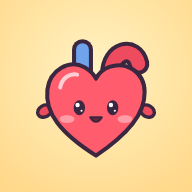
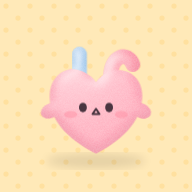
内臓・細胞キャラをぬいぐるみ風（ふち線なし・点の目・パステル）に描き直し、肺と肝臓を追加
Claude-Session: https://claude.ai/code/session_015AQ5PSpXJyMFnwsZRYtWDB

diff --git a/tools/organ-icons.js b/tools/organ-icons.js
@@ -1,98 +1,104 @@
-// 内臓・細胞キャラのホーム画面アイコン（オリジナル絵）を作るスクリプト
-// 使い方: node tools/organ-icons.js  → icons/e〜l に PNG ができる
+// 内臓・細胞キャラのホーム画面アイコン（オリジナル絵・ぬいぐるみ風）を作るスクリプト
+// 使い方: node tools/organ-icons.js  → icons/e〜n に PNG ができる
 const fs = require("fs");
 const path = require("path");
-const O = "#3b2740";   // 線の色
-const SW = 12;         // 線の太さ
+const INK = "#4a3540"; // 目・口の色
 
-function face(x, y, s = 1, opt = {}) {
-  s *= 1.3;
-  const ex = 38 * s, ey = 17 * s;
-  const eye = (cx) => `<ellipse cx="${cx}" cy="${y}" rx="${13 * s}" ry="${ey}" fill="${opt.eye || O}"/>` +
-    `<circle cx="${cx - 4 * s}" cy="${y - 6 * s}" r="${5 * s}" fill="#fff"/>` +
-    `<circle cx="${cx + 5 * s}" cy="${y + 7 * s}" r="${2.4 * s}" fill="#fff"/>`;
-  const blush = (cx) => `<ellipse cx="${cx}" cy="${y + 26 * s}" rx="${17 * s}" ry="${9 * s}" fill="${opt.blush || "#ff6f91"}" opacity=".55"/>`;
-  const mouth = `<path d="M${x - 13 * s} ${y + 22 * s} Q${x} ${y + 42 * s} ${x + 13 * s} ${y + 22 * s} Z" fill="${opt.mouth || "#7a2238"}" stroke="${opt.eye || O}" stroke-width="${5 * s}" stroke-linejoin="round"/>`;
-  return blush(x - 66 * s) + blush(x + 66 * s) + eye(x - ex) + eye(x + ex) + mouth;
+// 小さい点の目＋ちょこんとした口（mouth: smile / open / cat / flat）
+function face(x, y, s = 1, mouth = "smile", blush = "#ff8fa3") {
+  s *= 1.15;
+  const ex = 30 * s;
+  const eye = (cx) => `<ellipse cx="${cx}" cy="${y}" rx="${9 * s}" ry="${11 * s}" fill="${INK}"/>`;
+  const b = (cx) => `<ellipse cx="${cx}" cy="${y + 16 * s}" rx="${15 * s}" ry="${8 * s}" fill="${blush}" opacity=".5"/>`;
+  const st = `fill="none" stroke="${INK}" stroke-width="${5.5 * s}" stroke-linecap="round" stroke-linejoin="round"`;
+  const m = {
+    smile: `<path d="M${x - 10 * s} ${y + 6 * s} Q${x} ${y + 17 * s} ${x + 10 * s} ${y + 6 * s}" ${st}/>`,
+    cat: `<path d="M${x - 14 * s} ${y + 6 * s} Q${x - 7 * s} ${y + 15 * s} ${x} ${y + 7 * s} Q${x + 7 * s} ${y + 15 * s} ${x + 14 * s} ${y + 6 * s}" ${st}/>`,
+    open: `<path d="M${x - 9 * s} ${y + 5 * s} Q${x} ${y + 22 * s} ${x + 9 * s} ${y + 5 * s} Z" fill="${INK}" stroke="${INK}" stroke-width="${3 * s}" stroke-linejoin="round"/>`,
+    tri: `<path d="M${x} ${y + 3 * s} L${x - 8 * s} ${y + 15 * s} L${x + 8 * s} ${y + 15 * s} Z" fill="none" stroke="${INK}" stroke-width="${4.5 * s}" stroke-linejoin="round"/>`,
+  }[mouth];
+  return b(x - 58 * s) + b(x + 58 * s) + eye(x - ex) + eye(x + ex) + m;
 }
-// 丸をたくさん重ねて「もこもこ」の形にする（外側だけ線が出る）
-function blob(circles, fill) {
-  const c = (w) => circles.map(([x, y, r]) => `<circle cx="${x}" cy="${y}" r="${r}"${w}/>`).join("");
-  return `<g fill="${O}" stroke="${O}" stroke-width="${SW * 2}">${c("")}</g><g fill="${fill}">${c("")}</g>`;
-}
-// 太い管（線つき）
-function tube(d, color, w) {
-  return `<path d="${d}" fill="none" stroke="${O}" stroke-width="${w + SW * 2}" stroke-linecap="round" stroke-linejoin="round"/>` +
-    `<path d="${d}" fill="none" stroke="${color}" stroke-width="${w}" stroke-linecap="round" stroke-linejoin="round"/>`;
-}
-const arm = (x, y, r, fill) => `<ellipse cx="${x}" cy="${y}" rx="22" ry="17" transform="rotate(${r} ${x} ${y})" fill="${fill}" stroke="${O}" stroke-width="${SW - 2}"/>`;
-const sp = (x, y, s, c) => `<path d="M${x} ${y - s} Q${x} ${y} ${x + s} ${y} Q${x} ${y} ${x} ${y + s} Q${x} ${y} ${x - s} ${y} Q${x} ${y} ${x} ${y - s}Z" fill="${c}"/>`;
+const circles = (list, fill) => list.map(([x, y, r]) => `<circle cx="${x}" cy="${y}" r="${r}" fill="${fill}"/>`).join("");
+const tube = (d, color, w) => `<path d="${d}" fill="none" stroke="${color}" stroke-width="${w}" stroke-linecap="round" stroke-linejoin="round"/>`;
+const star = (x, y, s, c) => `<path d="M${x} ${y - s} Q${x} ${y} ${x + s} ${y} Q${x} ${y} ${x} ${y + s} Q${x} ${y} ${x - s} ${y} Q${x} ${y} ${x} ${y - s}Z" fill="${c}"/>`;
 
+// body: ぬいぐるみの体（ふわっと立体にする）／ deco: 体の上の模様／ face: 顔
 const ICONS = {
-  e: { name: "しんぞう", bg: ["#fff3c4", "#ffd88a"], body: () =>
-    tube("M300 190 C300 120 370 105 382 160", "#ee4b5f", 40) +
-    tube("M216 190 L216 118", "#6fa3ec", 38) +
-    arm(104, 300, -30, "#ee4b5f") + arm(408, 300, 30, "#ee4b5f") +
-    `<path d="M256 432 C150 365 104 305 112 236 C120 176 178 146 222 170 C240 180 251 194 256 204 C262 192 276 176 296 169 C346 152 400 184 400 244 C401 308 352 366 256 432 Z" fill="#ff5d6e" stroke="${O}" stroke-width="${SW}" stroke-linejoin="round"/>` +
-    `<path d="M150 230 C155 200 180 188 200 192" fill="none" stroke="#fff" stroke-width="12" stroke-linecap="round" opacity=".7"/>` +
-    face(256, 290, 1, { blush: "#ffd1d7" }) },
-  f: { name: "のう", bg: ["#d9fbe9", "#9fe8c4"], body: () =>
-    tube("M256 360 L256 420", "#f58aa6", 46) +
-    blob([[256, 250, 140], [150, 250, 85], [362, 250, 85], [190, 170, 75], [322, 170, 75], [256, 150, 80], [170, 320, 70], [342, 320, 70], [256, 340, 80]], "#ffa9c0") +
-    `<g fill="none" stroke="#e0718f" stroke-width="9" stroke-linecap="round">` +
-    `<path d="M256 120 C246 150 266 175 256 205"/><path d="M175 180 C200 170 205 205 230 200"/><path d="M337 180 C312 170 307 205 282 200"/>` +
-    `<path d="M128 255 C150 235 165 262 185 248"/><path d="M384 255 C362 235 347 262 327 248"/></g>` +
-    face(256, 290) },
-  g: { name: "い", bg: ["#dff1ff", "#a8d5ff"], body: () =>
-    tube("M196 70 L196 170", "#ffb27a", 44) +
-    tube("M392 330 C430 350 440 400 410 425", "#ffb27a", 34) +
-    arm(132, 300, -35, "#ffb27a") +
-    `<path d="M172 150 C168 230 150 300 190 365 C232 432 352 440 398 368 C436 306 410 222 348 220 C298 218 282 255 260 226 C240 200 246 160 222 150 Z" fill="#ffc08c" stroke="${O}" stroke-width="${SW}" stroke-linejoin="round"/>` +
-    `<path d="M196 200 C192 240 186 280 200 320" fill="none" stroke="#fff" stroke-width="12" stroke-linecap="round" opacity=".6"/>` +
-    face(296, 320, 0.95) },
-  h: { name: "ちょう", bg: ["#fff8d6", "#ffe58f"], body: () => {
-    const d = "M150 150 H362 C418 150 418 250 362 250 H150 C94 250 94 350 150 350 H330";
-    return tube(d, "#ff9f86", 84) +
-      `<path d="${d}" fill="none" stroke="#ffc3b0" stroke-width="40" stroke-linecap="round" stroke-linejoin="round" stroke-dasharray="6 26"/>` +
-      `<path d="M330 350 C370 350 392 360 400 392" fill="none" stroke="${O}" stroke-width="${SW}" stroke-linecap="round"/>` +
-      `<path d="M150 128 H250" fill="none" stroke="#fff" stroke-width="10" stroke-linecap="round" opacity=".7"/>` +
-      face(256, 234, 0.8);
-  } },
-  i: { name: "せっけっきゅう", bg: ["#e2f0ff", "#b6d6ff"], body: () =>
-    `<ellipse cx="256" cy="270" rx="172" ry="160" fill="#e8394f" stroke="${O}" stroke-width="${SW}"/>` +
-    `<ellipse cx="256" cy="275" rx="105" ry="92" fill="#c92740"/>` +
-    `<path d="M140 210 C160 160 205 135 250 132" fill="none" stroke="#fff" stroke-width="14" stroke-linecap="round" opacity=".55"/>` +
-    face(256, 262, 1, { blush: "#ff9fb0", mouth: "#5c0f20" }) },
-  j: { name: "はっけっきゅう", bg: ["#efe6ff", "#c9b2ff"], body: () =>
-    blob([[256, 262, 140], [256, 118, 42], [360, 152, 44], [398, 258, 42], [360, 366, 44], [256, 404, 42], [152, 366, 44], [114, 258, 42], [152, 152, 44]], "#ffffff") +
-    `<path d="M200 380 C190 360 210 350 222 360 C230 340 255 345 255 365" fill="none" stroke="#c7b8e8" stroke-width="9" stroke-linecap="round"/>` +
-    `<path d="M300 170 C320 160 345 175 340 195" fill="none" stroke="#c7b8e8" stroke-width="9" stroke-linecap="round"/>` +
-    face(256, 262, 1, { blush: "#ffb0c8" }) },
-  k: { name: "かんさいぼう", bg: ["#e9fff3", "#b4f0d0"], body: () =>
-    tube("M256 140 C256 110 250 95 256 76", "#4fbf6a", 14) +
-    `<path d="M256 96 C220 60 180 70 172 92 C200 110 236 112 256 96 Z M258 92 C290 50 336 56 344 80 C316 104 280 106 258 92 Z" fill="#7ad98e" stroke="${O}" stroke-width="9" stroke-linejoin="round"/>` +
-    `<circle cx="256" cy="285" r="150" fill="#c4f5d2" stroke="${O}" stroke-width="${SW}"/>` +
-    `<circle cx="345" cy="350" r="34" fill="#9b7bea" stroke="${O}" stroke-width="8"/><circle cx="335" cy="340" r="9" fill="#fff" opacity=".7"/>` +
-    `<circle cx="168" cy="350" r="12" fill="#8fe0a8"/><circle cx="196" cy="384" r="8" fill="#8fe0a8"/>` +
-    face(250, 270) },
-  l: { name: "ニューロン", bg: ["#2b3d78", "#16204a"], body: () =>
-    sp(110, 120, 18, "#ffe680") + sp(410, 410, 14, "#9fe8ff") + sp(420, 120, 12, "#ffe680") + sp(96, 420, 10, "#9fe8ff") +
-    tube("M200 210 L130 160 M130 160 L100 175 M130 160 L120 125", "#ffd34d", 22) +
-    tube("M312 210 L382 160 M382 160 L412 175 M382 160 L392 125", "#ffd34d", 22) +
-    tube("M256 180 L256 112 M256 112 L230 90 M256 112 L282 90", "#ffd34d", 22) +
-    tube("M180 310 L120 340", "#ffd34d", 22) +
-    tube("M330 320 C360 360 360 400 400 430", "#ffd34d", 18) +
-    `<g fill="#7fd6ff" stroke="${O}" stroke-width="7"><rect x="336" y="340" width="34" height="26" rx="12" transform="rotate(58 353 353)"/><rect x="360" y="392" width="34" height="26" rx="12" transform="rotate(35 377 405)"/></g>` +
-    `<path d="M256 172 C330 172 352 222 350 268 C348 330 302 352 256 352 C204 352 160 326 160 266 C160 214 190 172 256 172 Z" fill="#ffd34d" stroke="${O}" stroke-width="${SW}" stroke-linejoin="round"/>` +
-    face(256, 262, 0.95, { blush: "#ff8a6e" }) },
+  e: { name: "しんぞう", bg: "#ffe9b8", dot: "#ffd98a",
+    body: () => tube("M206 205 L206 128", "#8cc4f0", 44) + tube("M300 200 C300 130 352 118 368 160", "#ff8ea4", 44) +
+      `<ellipse cx="118" cy="300" rx="30" ry="22" transform="rotate(-25 118 300)" fill="#ff9fb3"/><ellipse cx="394" cy="300" rx="30" ry="22" transform="rotate(25 394 300)" fill="#ff9fb3"/>` +
+      `<path d="M256 430 C160 380 112 320 116 250 C120 190 170 160 214 180 C236 190 250 204 256 214 C264 202 280 186 302 180 C352 166 398 200 396 258 C394 324 348 382 256 430 Z" fill="#ff9fb3"/>`,
+    deco: () => "", face: () => face(256, 290, 1.15, "tri") },
+  f: { name: "のう", bg: "#d7f5e6", dot: "#b5ebd0",
+    body: () => tube("M262 350 L272 418", "#f2a6bd", 48) +
+      circles([[256, 250, 140], [150, 255, 88], [362, 255, 88], [190, 175, 78], [322, 175, 78], [256, 160, 82], [180, 320, 72], [332, 320, 72], [256, 335, 80]], "#ffc6d6"),
+    deco: () => `<g fill="none" stroke="#f08aa8" stroke-width="9" stroke-linecap="round"><path d="M256 118 C244 150 268 172 256 200"/><path d="M168 178 C190 160 214 196 236 180"/><path d="M344 178 C322 160 298 196 276 180"/><path d="M118 232 C140 214 160 246 182 228"/><path d="M394 232 C372 214 352 246 330 228"/><path d="M150 330 C170 350 192 330 200 350"/><path d="M362 330 C342 350 320 330 312 350"/></g>`,
+    face: () => face(256, 270, 1.15, "smile") },
+  g: { name: "い", bg: "#dcecff", dot: "#c2dcfb",
+    body: () => tube("M196 78 L196 170", "#ffc59a", 46) + tube("M396 332 C432 356 436 404 404 424", "#ffc59a", 38) +
+      `<path d="M170 150 C166 230 150 300 190 365 C232 432 352 440 398 368 C436 306 410 222 348 220 C298 218 282 255 260 226 C240 200 246 160 222 150 Z" fill="#ffcfa6"/>`,
+    deco: () => "", face: () => face(298, 318, 1.1, "smile") },
+  h: { name: "ちょう", bg: "#efe4ff", dot: "#dccbff",
+    body: () => circles([[150, 380, 52], [130, 310, 56], [134, 236, 56], [168, 172, 56], [232, 140, 56], [300, 140, 56], [356, 172, 56], [382, 236, 56], [384, 310, 56], [364, 380, 52]], "#ffb7a3") +
+      `<rect x="186" y="210" width="140" height="140" rx="56" fill="#ffd3c4"/>`,
+    deco: () => `<path d="M206 238 C230 222 246 250 270 236 C292 224 306 246 306 260 M206 300 C226 290 244 316 266 302 C290 290 302 312 306 324" fill="none" stroke="#f6a993" stroke-width="9" stroke-linecap="round"/>`,
+    face: () => face(256, 160, 0.95, "cat") },
+  i: { name: "せっけっきゅう", bg: "#dcecff", dot: "#c2dcfb",
+    body: () => `<ellipse cx="256" cy="272" rx="168" ry="158" fill="#ff7f8f"/>`,
+    deco: () => `<ellipse cx="256" cy="276" rx="96" ry="80" fill="#f26b7a" opacity=".6"/>`,
+    face: () => face(256, 262, 1.05, "smile", "#ffc0ca") },
+  j: { name: "はっけっきゅう", bg: "#efe4ff", dot: "#dccbff",
+    body: () => circles([[256, 262, 138], [256, 124, 50], [352, 154, 52], [394, 254, 50], [356, 358, 52], [256, 398, 50], [156, 358, 52], [118, 254, 50], [160, 154, 52], [306, 120, 40], [206, 120, 40], [400, 310, 40], [112, 310, 40]], "#fffaf0"),
+    deco: () => "", face: () => face(256, 262, 1.15, "smile", "#ffb6c8") },
+  k: { name: "かんさいぼう", bg: "#ddf7e8", dot: "#c0efd5",
+    body: () => tube("M256 140 C256 112 252 98 256 80", "#6fcf86", 16) +
+      `<path d="M256 98 C222 62 182 72 174 94 C202 112 236 114 256 98 Z M258 94 C290 54 334 60 342 84 C314 106 280 108 258 94 Z" fill="#8fe0a2"/>` +
+      `<circle cx="256" cy="285" r="150" fill="#cdf5d9"/>`,
+    deco: () => `<circle cx="345" cy="352" r="34" fill="#b49af0"/><circle cx="170" cy="352" r="12" fill="#a8e8bb"/><circle cx="198" cy="386" r="8" fill="#a8e8bb"/>`,
+    face: () => face(250, 268, 1.15, "open") },
+  l: { name: "ニューロン", bg: "#2e3f7a", dot: "#3a4c8c",
+    body: () => tube("M210 220 L136 166 M136 166 L104 180 M136 166 L126 128", "#ffe27a", 26) +
+      tube("M302 220 L376 166 M376 166 L408 180 M376 166 L386 128", "#ffe27a", 26) +
+      tube("M256 190 L256 116 M256 116 L230 92 M256 116 L282 92", "#ffe27a", 26) +
+      tube("M186 316 L124 346", "#ffe27a", 26) + tube("M326 322 C356 362 360 400 398 428", "#ffe27a", 20) +
+      `<path d="M256 180 C326 180 350 224 348 270 C346 330 302 352 256 352 C206 352 164 328 164 268 C164 218 194 180 256 180 Z" fill="#ffe27a"/>`,
+    deco: () => `<g fill="#9fdcff"><rect x="334" y="340" width="34" height="24" rx="12" transform="rotate(58 351 352)"/><rect x="358" y="392" width="34" height="24" rx="12" transform="rotate(35 375 404)"/></g>` +
+      star(110, 110, 18, "#fff1a8") + star(420, 112, 12, "#fff1a8") + star(96, 420, 11, "#bfe8ff") + star(426, 300, 9, "#bfe8ff"),
+    face: () => face(256, 264, 1.1, "smile", "#ffab8a") },
+  m: { name: "はい", bg: "#e4f3ff", dot: "#cbe6fb",
+    body: () => tube("M256 86 L256 196 M256 196 L222 224 M256 196 L290 224", "#9edf8e", 30) +
+      `<path d="M232 210 C232 170 208 150 180 152 C126 156 104 240 106 316 C108 380 140 418 186 416 C232 414 240 380 236 330 Z" fill="#b8dcf7"/>` +
+      `<path d="M280 210 C280 170 304 150 332 152 C386 156 408 240 406 316 C404 380 372 418 326 416 C280 414 272 380 276 330 Z" fill="#b8dcf7"/>`,
+    deco: () => "", face: () => face(172, 312, 0.85, "smile") + face(340, 312, 0.85, "cat") },
+  n: { name: "かんぞう", bg: "#fff1d9", dot: "#ffe3b0",
+    body: () => `<path d="M104 236 C104 186 160 170 230 172 C320 174 400 168 414 200 C426 230 392 268 340 300 C284 336 220 372 170 368 C124 364 104 300 104 236 Z" fill="#ffc96b"/>`,
+    deco: () => `<path d="M292 182 C300 226 296 280 280 326" fill="none" stroke="#f0a64a" stroke-width="9" stroke-linecap="round"/>`,
+    face: () => face(196, 262, 1.1, "smile") },
 };
+
+const DEFS = `<filter id="puff" x="-10%" y="-10%" width="120%" height="120%">
+  <feGaussianBlur in="SourceAlpha" stdDeviation="16" result="b"/>
+  <feSpecularLighting in="b" surfaceScale="7" specularConstant=".55" specularExponent="16" lighting-color="#ffffff" result="s"><fePointLight x="170" y="90" z="260"/></feSpecularLighting>
+  <feComposite in="s" in2="SourceAlpha" operator="in" result="hi"/>
+  <feOffset in="b" dy="-12" result="o"/>
+  <feComposite in="SourceAlpha" in2="o" operator="out" result="edge"/>
+  <feFlood flood-color="#7a3a50" flood-opacity=".16"/><feComposite in2="edge" operator="in" result="sh"/>
+  <feTurbulence type="fractalNoise" baseFrequency=".9" numOctaves="2" seed="3" result="n"/>
+  <feColorMatrix in="n" type="matrix" values="0 0 0 0 1  0 0 0 0 1  0 0 0 0 1  0 0 0 .22 0" result="nw"/>
+  <feComposite in="nw" in2="SourceAlpha" operator="in" result="fuzz"/>
+  <feMerge><feMergeNode in="SourceGraphic"/><feMergeNode in="fuzz"/><feMergeNode in="sh"/><feMergeNode in="hi"/></feMerge>
+</filter>
+<filter id="soft"><feGaussianBlur stdDeviation="14"/></filter>`;
 
 function svg(k) {
   const ic = ICONS[k];
   return `<svg xmlns="http://www.w3.org/2000/svg" viewBox="0 0 512 512" width="512" height="512">` +
-    `<defs><radialGradient id="bg${k}" cx="50%" cy="38%" r="75%"><stop offset="0" stop-color="${ic.bg[0]}"/><stop offset="1" stop-color="${ic.bg[1]}"/></radialGradient></defs>` +
-    `<rect width="512" height="512" fill="url(#bg${k})"/>` +
-    `<g transform="translate(256 262) scale(0.9) translate(-256 -262)">${ic.body()}</g></svg>`;
+    `<defs>${DEFS}<pattern id="dots${k}" width="64" height="64" patternUnits="userSpaceOnUse"><circle cx="16" cy="16" r="7" fill="${ic.dot}"/><circle cx="48" cy="48" r="7" fill="${ic.dot}"/></pattern></defs>` +
+    `<rect width="512" height="512" fill="${ic.bg}"/><rect width="512" height="512" fill="url(#dots${k})" opacity=".55"/>` +
+    `<g transform="translate(256 262) scale(0.88) translate(-256 -262)">` +
+    `<ellipse cx="256" cy="452" rx="150" ry="22" fill="#000" opacity=".10" filter="url(#soft)"/>` +
+    `<g filter="url(#puff)">${ic.body()}</g>${ic.deco()}${ic.face()}</g></svg>`;
 }
 
 module.exports = { ICONS, svg };
@@ -109,7 +115,7 @@ if (require.main === module) {
       for (const [file, size] of [["icon-512.png", 512], ["icon-192.png", 192], ["apple-touch-icon.png", 180]]) {
         await p.setViewportSize({ width: size, height: size });
         await p.setContent(`<html><body style="margin:0">${svg(k).replace('width="512" height="512"', `width="${size}" height="${size}"`)}</body></html>`);
-        await p.screenshot({ path: path.join(dir, file), omitBackground: false });
+        await p.screenshot({ path: path.join(dir, file) });
       }
       console.log(k, ICONS[k].name);
     }

diff --git a/index.html b/index.html
@@ -239,7 +239,7 @@ input:focus{outline:2px solid var(--accent);outline-offset:1px}
 window.addEventListener("DOMContentLoaded", () => {
   const box = document.getElementById("icon-pick");
   if (!box || !window.KQIcon) { const p = document.getElementById("icon-box"); if (p) p.hidden = true; return; }
-  const names = { a: "ボード", b: "ねこ", c: "Q", d: "ピンク", e: "しんぞう", f: "のう", g: "い", h: "ちょう", i: "赤血球", j: "白血球", k: "幹細胞", l: "ニューロン" };
+  const names = { a: "ボード", b: "ねこ", c: "Q", d: "ピンク", e: "しんぞう", f: "のう", g: "い", h: "ちょう", i: "赤血球", j: "白血球", k: "幹細胞", l: "ニューロン", m: "肺", n: "肝臓" };
   const draw = () => {
     const cur = KQIcon.get();
     box.innerHTML = "";

diff --git a/shared/update.js b/shared/update.js
@@ -9,8 +9,8 @@
   var me = document.currentScript;
   var root = new URL("../", me ? me.src : location.href); // サイトのいちばん上（/Kokushi-quiz/）
 
-  // ホーム画面のアイコン（トップページで選べる。e〜l は内臓・細胞キャラ。はじめは C）
-  var ICONS = ["a", "b", "c", "d", "e", "f", "g", "h", "i", "j", "k", "l"];
+  // ホーム画面のアイコン（トップページで選べる。e〜n は内臓・細胞キャラ。はじめは C）
+  var ICONS = ["a", "b", "c", "d", "e", "f", "g", "h", "i", "j", "k", "l", "m", "n"];
   function applyIcon(k) {
     if (ICONS.indexOf(k) < 0) k = "c";
     var t = document.querySelector('link[rel="apple-touch-icon"]');
